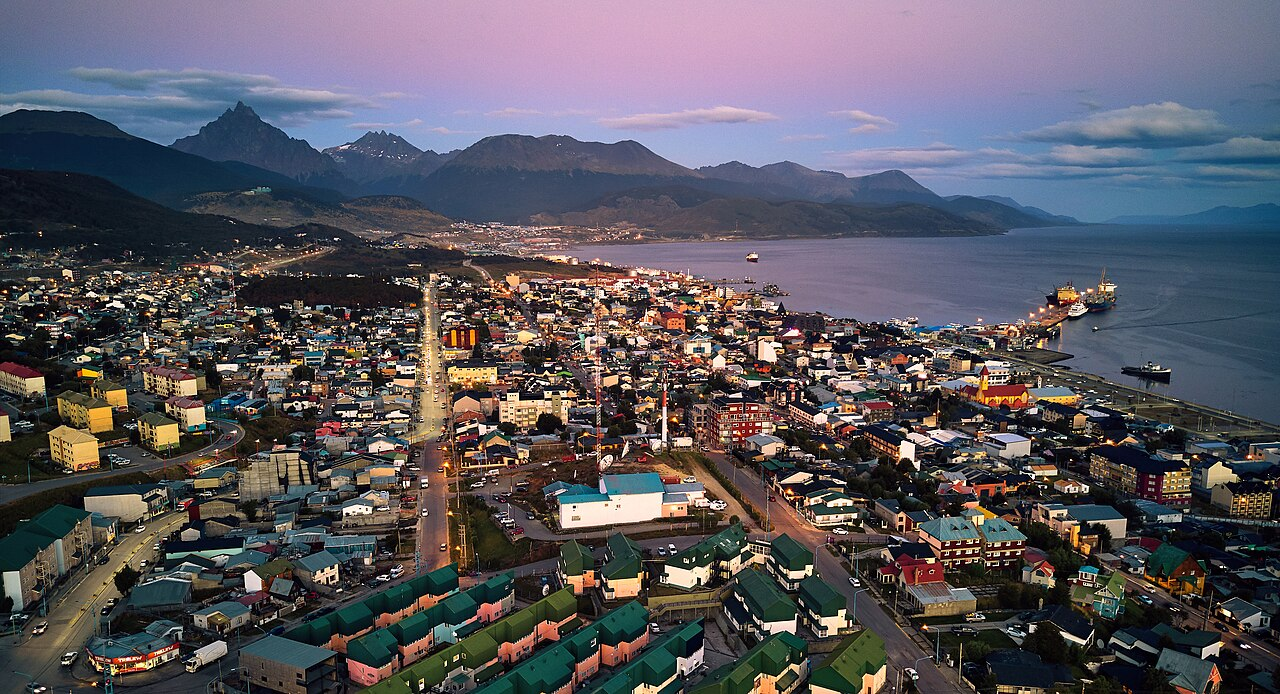
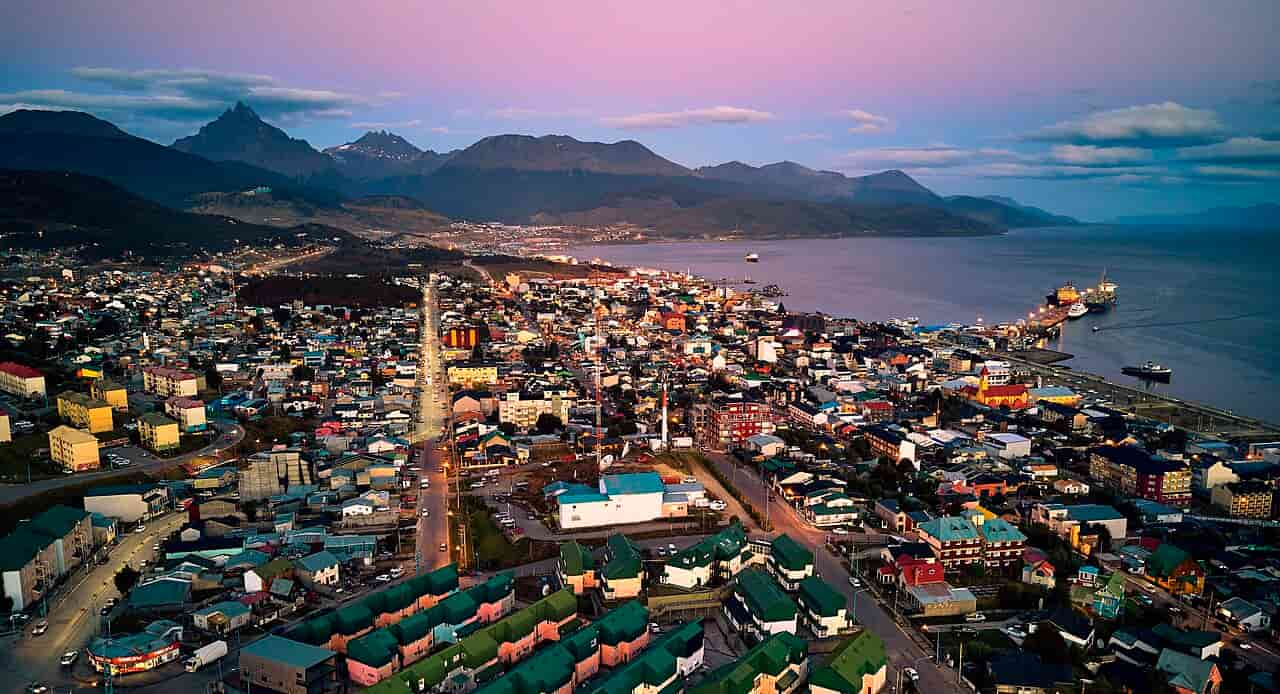
Index fixed

diff --git a/index.html b/index.html
@@ -14,7 +14,7 @@
     <header>
         <nav>
             <a href="#">Home</a>
-            <a href="#">Rafting Website</a>
+            <a href="wwr/">Rafting Website</a>
         </nav>
     </header>
 
@@ -45,12 +45,11 @@
     </aside>
     <footer>
         <p>&copy;2026 🌅 Tomas Agustin Pietropaolo 🌅 Tierra del Fuego, Argentina</p>
+        <img src="images/salt-lake-temple.jpg" alt="The Salt Lake Temple.">
     </footer>
     <p>This page will become your homepage for the course. You will remove this text and
         replace it
         with your own personal details.</p>
-
-    <img src="images/salt-lake-temple.jpg" alt="The Salt Lake Temple.">
 </body>
 
 </html>

diff --git a/styles/styles.css b/styles/styles.css
@@ -43,9 +43,8 @@ aside {
 
 aside h2 {
     position: absolute;
-    top: 330px;
-    left: 800px;
-    margin: auto;
+    width: 100%;
+    text-align: center;
 }
 
 aside img {
